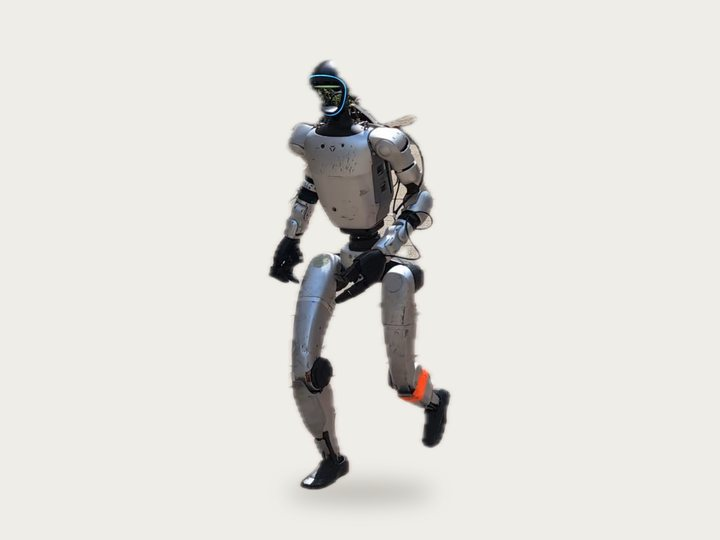
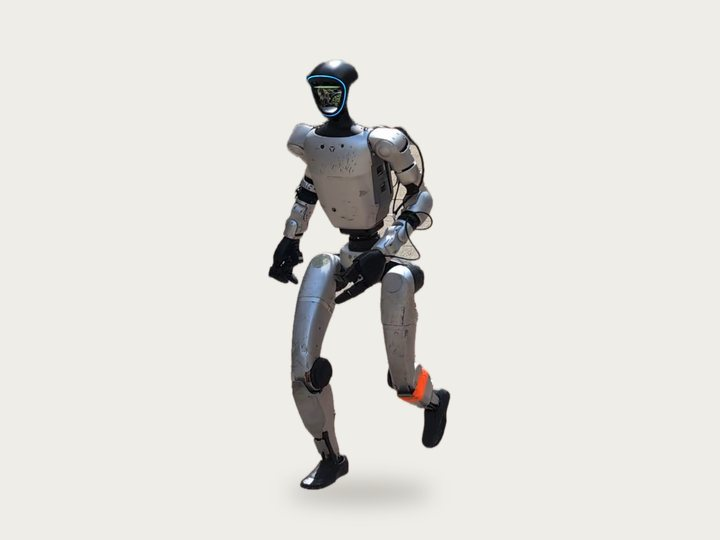
Проверка части 1 на сайте, фото G1 с целой головой

diff --git a/tools/site_program.js b/tools/site_program.js
@@ -1,5 +1,6 @@
 // Программа на главной: готовые части открыты, перед частями в работе — разделитель «Скоро» со ссылкой на канал.
 const { launch, sleep } = require('./cdp');
+const LINKS = require('../site/config.json').PUBLISHED.filter((p) => p.n !== 'Г' && (!p.date || new Date(p.date + 'T09:00:00+03:00') <= new Date())).length; // как site/published.py
 const path = require('path');
 const site = (f) => 'file://' + path.resolve(__dirname, '../site/' + f);
 const out = (n) => path.resolve(__dirname, '../shots/' + n);
@@ -19,7 +20,7 @@ const out = (n) => path.resolve(__dirname, '../shots/' + n);
         sw: document.documentElement.scrollWidth });
     })()`);
     const j = JSON.parse(r);
-    const ok = j.dividers === 1 && j.at === 2 && j.open === 2 && j.later === 7 && /^https:\/\//.test(j.href || '') && j.links === 13 && j.sw <= vp.width;
+    const ok = j.dividers === 1 && j.at === 2 && j.open === 2 && j.later === 7 && /^https:\/\//.test(j.href || '') && j.links === LINKS && j.sw <= vp.width;
     if (!ok) bad++;
     console.log(vp.t, ok ? 'ок' : 'ОШИБКА', JSON.stringify(j), p.logs.length ? p.logs.join(' | ') : '');
     await p.eval('document.querySelector(".soon").scrollIntoView({ block: "center" }); true'); await sleep(400);
